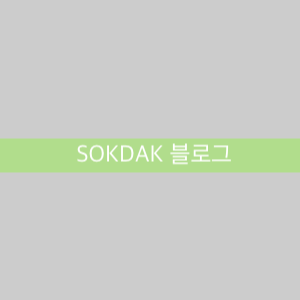
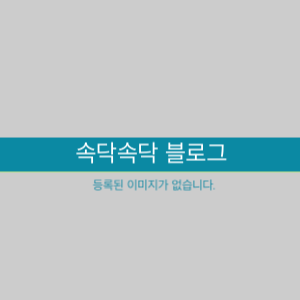
[edit] 블로그 관련기능 수정 - 블로그 내용 요약 기능 수정 - 블로그 썸기본 썸네일 이미지 수정 - BATCH 카테고리 추가 (배치성 글)

Changed region(s): [[0.0, 0.45, 1.0, 0.66]]

diff --git a/src/main/resources/templates/blog/main.html b/src/main/resources/templates/blog/main.html
@@ -1,71 +1,6 @@
 <!DOCTYPE html>
 <html xmlns:th="http://www.thymeleaf.org">
 <head>
-    <link href="https://cdn.jsdelivr.net/npm/bootstrap@5.3.3/dist/css/bootstrap.min.css"
-          rel="stylesheet"
-          integrity="sha384-QWTKZyjpPEjISv5WaRU9OFeRpok6YctnYmDr5pNlyT2bRjXh0JMhjY6hW+ALEwIH"
-          crossorigin="anonymous">
-    <script src="https://cdn.jsdelivr.net/npm/bootstrap@5.3.3/dist/js/bootstrap.bundle.min.js"
-            integrity="sha384-YvpcrYf0tY3lHB60NNkmXc5s9fDVZLESaAA55NDzOxhy9GkcIdslK1eN7N6jIeHz"
-            crossorigin="anonymous"></script>
-    <style>
-        body {
-            font-size: 1.5rem;
-        }
-        .hero-section {
-            background-color: #009999; /* 파란 계열 색 */
-            color: #ffffff; /* 흰색 글씨 */
-            padding: 3rem 0; /* 상하 여백 조정 */
-        }
-
-        .card-img-top {
-            height: 200px; /* 카드 이미지 높이 조정 */
-            object-fit: cover; /* 이미지가 카드 영역에 맞게 조정되도록 설정 */
-        }
-
-        .card {
-            transition: transform 0.3s ease;
-        }
-
-        .card:hover {
-            transform: scale(1.05);
-            cursor: pointer;
-        }
-
-        .load-button {
-            position: relative;
-            left: 50%;
-            transform: translateX(-50%);
-            background-color: #009999; /* 파란 계열 색 */
-        }
-
-        .load-button:hover {
-            background-color: #009999; /* 파란 계열 색 */
-        }
-
-        .search-bar {
-            position: relative;
-            display: flex;
-            align-items: center;
-        }
-        .search-input {
-            width: calc(100% - 40px); /* 오른쪽에 돋보기 아이콘 고려하여 너비 조정 */
-            padding: 10px;
-            border-radius: 5px;
-            border: 1px solid #ccc;
-            outline: none;
-            font-size: 1.2rem;
-        }
-        .search-icon {
-            position: absolute;
-            right: 10px;
-            cursor: pointer;
-        }
-
-        .search-icon:hover {
-            transform: scale(1.1); /* 마우스 호버 시 크기를 1.1배로 변경 */
-        }
-    </style>
 </head>
 <th:block th:replace="~{/layout/header :: headerFragment}"/>
 <body onload="fn_onload();">
@@ -97,7 +32,7 @@
                     <img th:if="${p.thumbnailImage != null}" th:src="${p.thumbnailImage}" class="card-img-top" alt="...">
                     <div class="card-body">
                         <h4 class="card-title" th:text="${p.title}"></h4>
-                        <h6 class="card-subtitle mb-2 text-muted" th:text="${p.userId}"></h6>
+                        <h5 class="card-subtitle mb-2 text-muted" th:text="${p.userId}"></h5>
                         <p class="card-text" th:utext="${p.contentPreview}"></p>
                     </div>
                 </div>

diff --git a/src/main/resources/templates/layout/header.html b/src/main/resources/templates/layout/header.html
@@ -7,6 +7,75 @@
     <meta name="viewport" content="width=device-width, initial-scale=1.0">
     <title>속닥속닥</title>
     <link rel="icon" href="/image/favicon/favicon-32x32.png"/>
+    <link href="https://cdn.jsdelivr.net/npm/bootstrap@5.3.3/dist/css/bootstrap.min.css"
+          rel="stylesheet"
+          integrity="sha384-QWTKZyjpPEjISv5WaRU9OFeRpok6YctnYmDr5pNlyT2bRjXh0JMhjY6hW+ALEwIH"
+          crossorigin="anonymous">
+    <script src="https://cdn.jsdelivr.net/npm/bootstrap@5.3.3/dist/js/bootstrap.bundle.min.js"
+            integrity="sha384-YvpcrYf0tY3lHB60NNkmXc5s9fDVZLESaAA55NDzOxhy9GkcIdslK1eN7N6jIeHz"
+            crossorigin="anonymous"></script>
+    <style>
+      body.card-body{
+        font-size: 1.5rem;
+      }
+      .hero-section {
+        background-color: #009999; /* 파란 계열 색 */
+        color: #ffffff; /* 흰색 글씨 */
+        padding: 3rem 0; /* 상하 여백 조정 */
+      }
+
+      .card-img-top {
+        height: 200px; /* 카드 이미지 높이 조정 */
+        object-fit: cover; /* 이미지가 카드 영역에 맞게 조정되도록 설정 */
+      }
+
+      .card {
+        transition: transform 0.3s ease;
+      }
+
+      .card:hover {
+        transform: scale(1.05);
+        cursor: pointer;
+      }
+
+      .card-body p {
+        font-size: 1.1rem;
+      }
+
+      .load-button {
+        position: relative;
+        left: 50%;
+        transform: translateX(-50%);
+        background-color: #009999; /* 파란 계열 색 */
+      }
+
+      .load-button:hover {
+        background-color: #009999; /* 파란 계열 색 */
+      }
+
+      .search-bar {
+        position: relative;
+        display: flex;
+        align-items: center;
+      }
+      .search-input {
+        width: calc(100% - 40px); /* 오른쪽에 돋보기 아이콘 고려하여 너비 조정 */
+        padding: 10px;
+        border-radius: 5px;
+        border: 1px solid #ccc;
+        outline: none;
+        font-size: 1.2rem;
+      }
+      .search-icon {
+        position: absolute;
+        right: 10px;
+        cursor: pointer;
+      }
+
+      .search-icon:hover {
+        transform: scale(1.1); /* 마우스 호버 시 크기를 1.1배로 변경 */
+      }
+    </style>
     <link rel="stylesheet" href="/css/css.css">
     <link th:inline="css" th:href="@{/tuiEditor/toastui-editor.min.css}" rel="stylesheet"/>
   </head>

diff --git a/src/main/resources/templates/posts/create.html b/src/main/resources/templates/posts/create.html
@@ -169,7 +169,12 @@
 
         $("div.bt_wrap a#cancelBtn").click(function (e) {
             e.preventDefault();
-            wf.attr("action", "/posts");
+            let category = [[${postSearch.category}]];
+            if(category === 'BBS'){
+                wf.attr("action", "/blog");
+            } else {
+                wf.attr("action", "/posts");
+            }
             wf.submit();
         });
     });

diff --git a/src/main/resources/static/css/style.css b/src/main/resources/static/css/style.css
@@ -112,14 +112,15 @@ h1, h2, h3 {
 }
 
 .bt_wrap a.on {
-    background: #000;
-    color : #fff; 
+    background: #009999;
+    color : #fff;
+    border : 1px solid #009999 !important;
 }
 
 .bt_wrap a.warning {
-    background: #f8243d;
+    background: #009999;
     color : #fff;
-    border : 1px solid #f8243d !important;
+    border : 1px solid #009999 !important;
 }
 
 .board_list_nav {

diff --git a/src/main/java/com/project/sokdak2/api/response/PostResponse.java b/src/main/java/com/project/sokdak2/api/response/PostResponse.java
@@ -5,6 +5,8 @@ import com.project.sokdak2.api.domain.post.Post;
 import lombok.Builder;
 import lombok.Getter;
 import lombok.NoArgsConstructor;
+import org.jsoup.Jsoup;
+import org.jsoup.safety.Safelist;
 
 import java.time.format.DateTimeFormatter;
 import java.util.List;
@@ -47,12 +49,11 @@ public class PostResponse {
     this.password = post.getPassword();
 
     if(this.content != null && !this.content.isEmpty()){
+      /** 1. 섬네일 이미지 추출 **/
       // 정규 표현식 패턴 생성
       Pattern pattern = Pattern.compile("!\\[image alt attribute\\]\\((.*?)\\.(jpg|png|jpeg)\\)");
-
       // 패턴과 일치하는 문자열 찾기
       Matcher matcher = pattern.matcher(this.content);
-
       // 이미지 주소 출력
       while (matcher.find()) {
         String imageUrl = matcher.group(1) + "." + matcher.group(2);
@@ -60,9 +61,20 @@ public class PostResponse {
         break;
       }
 
-      this.contentPreview = this.content.replaceAll("<[^>]*>|[^a-zA-Z0-9\\s]", "");
-      if(contentPreview.length() > 120){
-        this.contentPreview = this.contentPreview.substring(0, 120) + "...";
+      /** 2. 내용 미리보기 추출 */
+      this.contentPreview = this.content;
+      // 이미지 주소를 추출할 정규식 패턴
+      String patternString = "(!\\[.*?\\]\\(.*?\\.(jpg|jpeg|png)\\))";
+      pattern = Pattern.compile(patternString);
+      matcher = pattern.matcher(this.contentPreview);
+      // 매칭된 패턴을 제거하여 결과 문자열 생성
+      this.contentPreview = matcher.replaceAll("");
+      // html 태그 제거
+      this.contentPreview = Jsoup.clean(this.contentPreview, Safelist.none());
+      // markdown 문법 제거
+      this.contentPreview = this.contentPreview.replaceAll("[*#-]","");
+      if(contentPreview.length() > 60){
+        this.contentPreview = this.contentPreview.substring(0, 60) + "...";
       }
     }
   }

diff --git a/src/main/java/com/project/sokdak2/api/service/PostService.java b/src/main/java/com/project/sokdak2/api/service/PostService.java
@@ -70,7 +70,7 @@ public class PostService {
           , cacheManager = "ehCacheManager"
           , key="#ps.getCategory()+'-'+#ps.getPage()+'-'+#ps.getSize()+'-'+#ps.getKw()" +
           "+'-'+#ps.getKw_opt()+'-'+#ps.getDir()+'-'+#ps.getDir_props()"
-          , condition = "#ps.getPage() <= 6")
+          , condition = "#ps.getPage() <= 6 && #ps.category == 'NEWS'")
   public Page<PostResponse> getListByPage(PostSearch ps) {
     return postRepository.findPostsByCondition(ps);
   }

diff --git a/src/main/java/com/project/sokdak2/api/config/schedule/VisitsScheduler.java b/src/main/java/com/project/sokdak2/api/config/schedule/VisitsScheduler.java
@@ -38,7 +38,7 @@ public class VisitsScheduler {
                 .userId("스케쥴 봇")
                 .password(9999)
                 .locked(0)
-                .category(Category.BBS)
+                .category(Category.BATCH)
                 .build();
         postRepository.save(post);
     }

diff --git a/src/main/java/com/project/sokdak2/api/domain/post/Category.java b/src/main/java/com/project/sokdak2/api/domain/post/Category.java
@@ -6,6 +6,6 @@ import lombok.RequiredArgsConstructor;
 @Getter
 @RequiredArgsConstructor
 public enum Category {
-    NEWS("NEWS"), BBS("BBS");
+    NEWS("NEWS"), BBS("BBS"), BATCH("BATCH");
     private final String code;
 }
